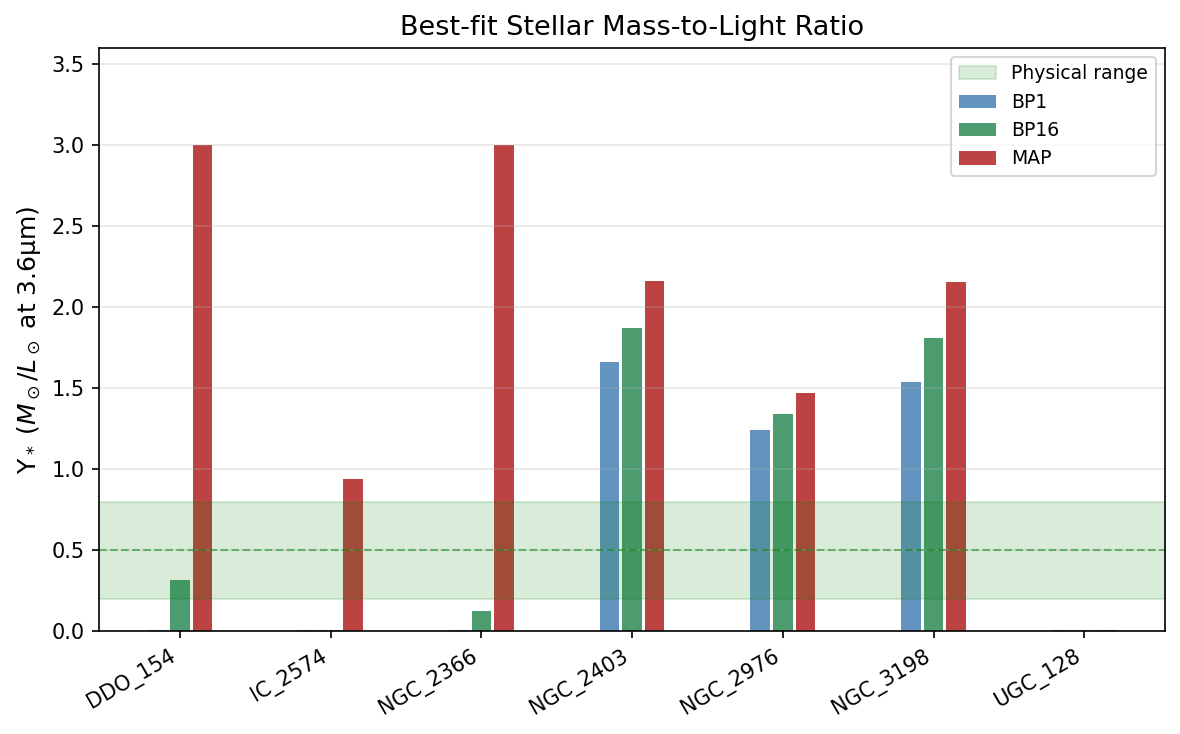
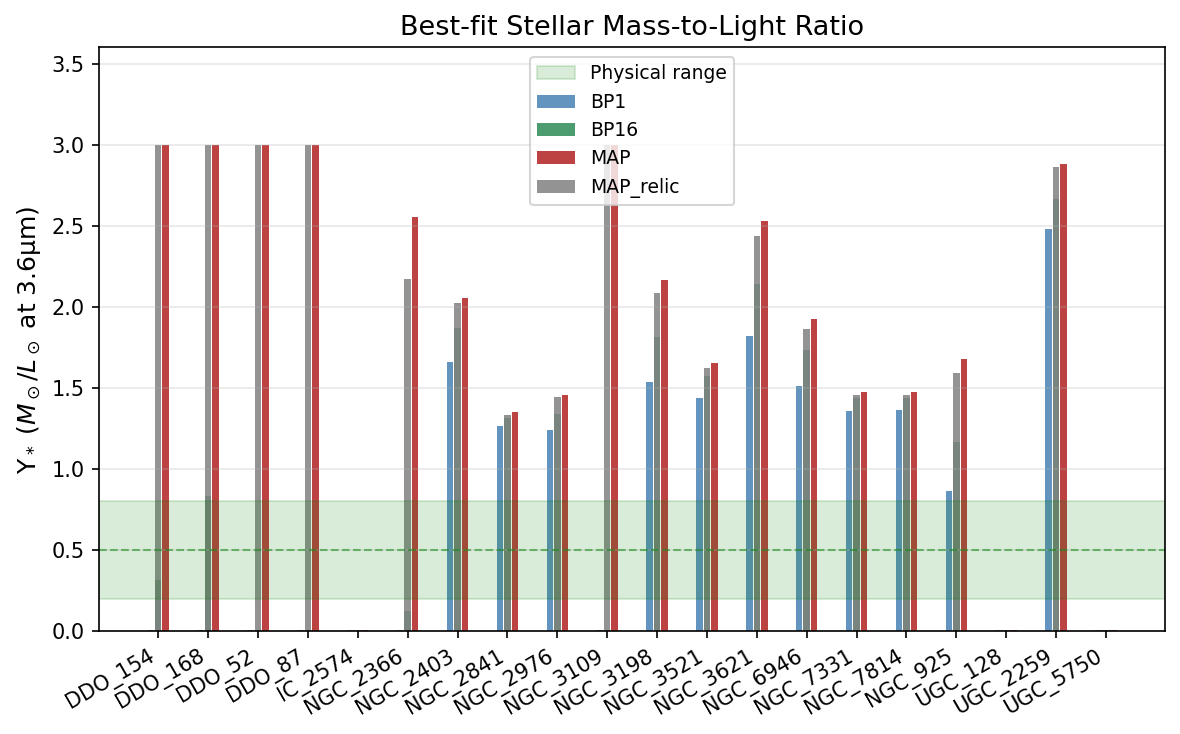
data: expand SPARC sample — additional galaxies and rotation data

Changed region(s): [[0.061, 0.0599, 0.9763, 0.9891]]

diff --git a/predictions/rotation_curves/predict_core_sizes.py b/predictions/rotation_curves/predict_core_sizes.py
@@ -234,7 +234,7 @@ def main():
         v2s  = [r['V2_sidm'] for r in results]
 
         # NFW curve
-        vm_line = np.linspace(30, 260, 120)
+        vm_line = np.linspace(30, 320, 150)
         v2_nfw_line = []
         for v in vm_line:
             rs, rss = nfw_params_from_vmax(v, c=conc)
